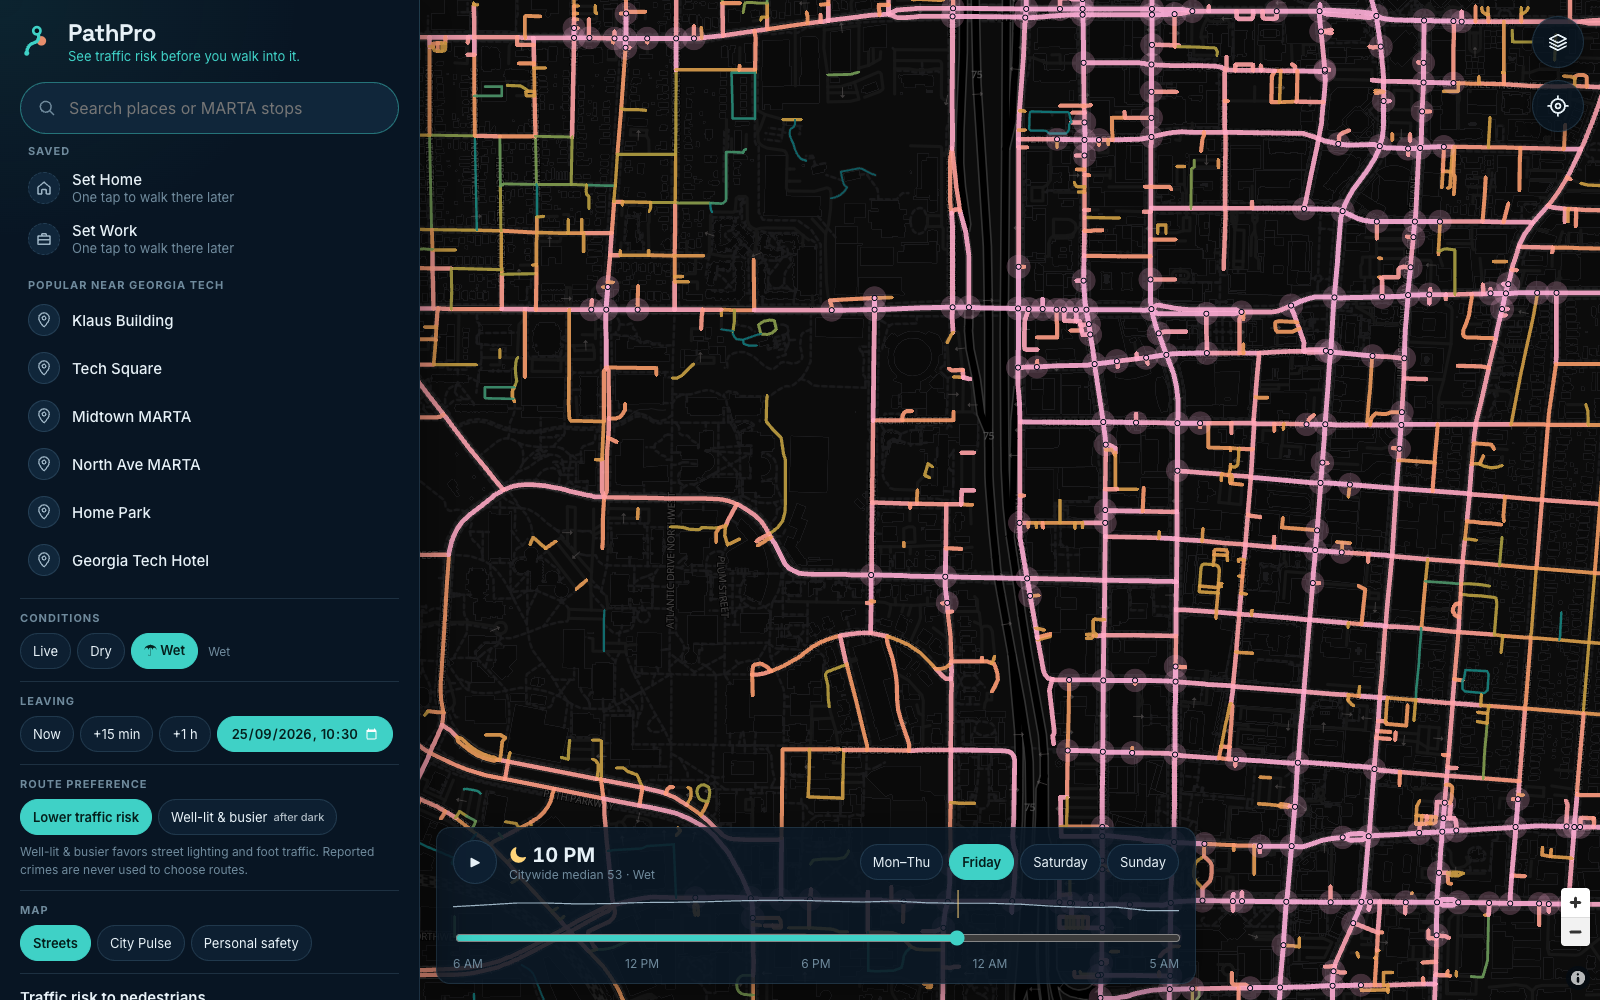
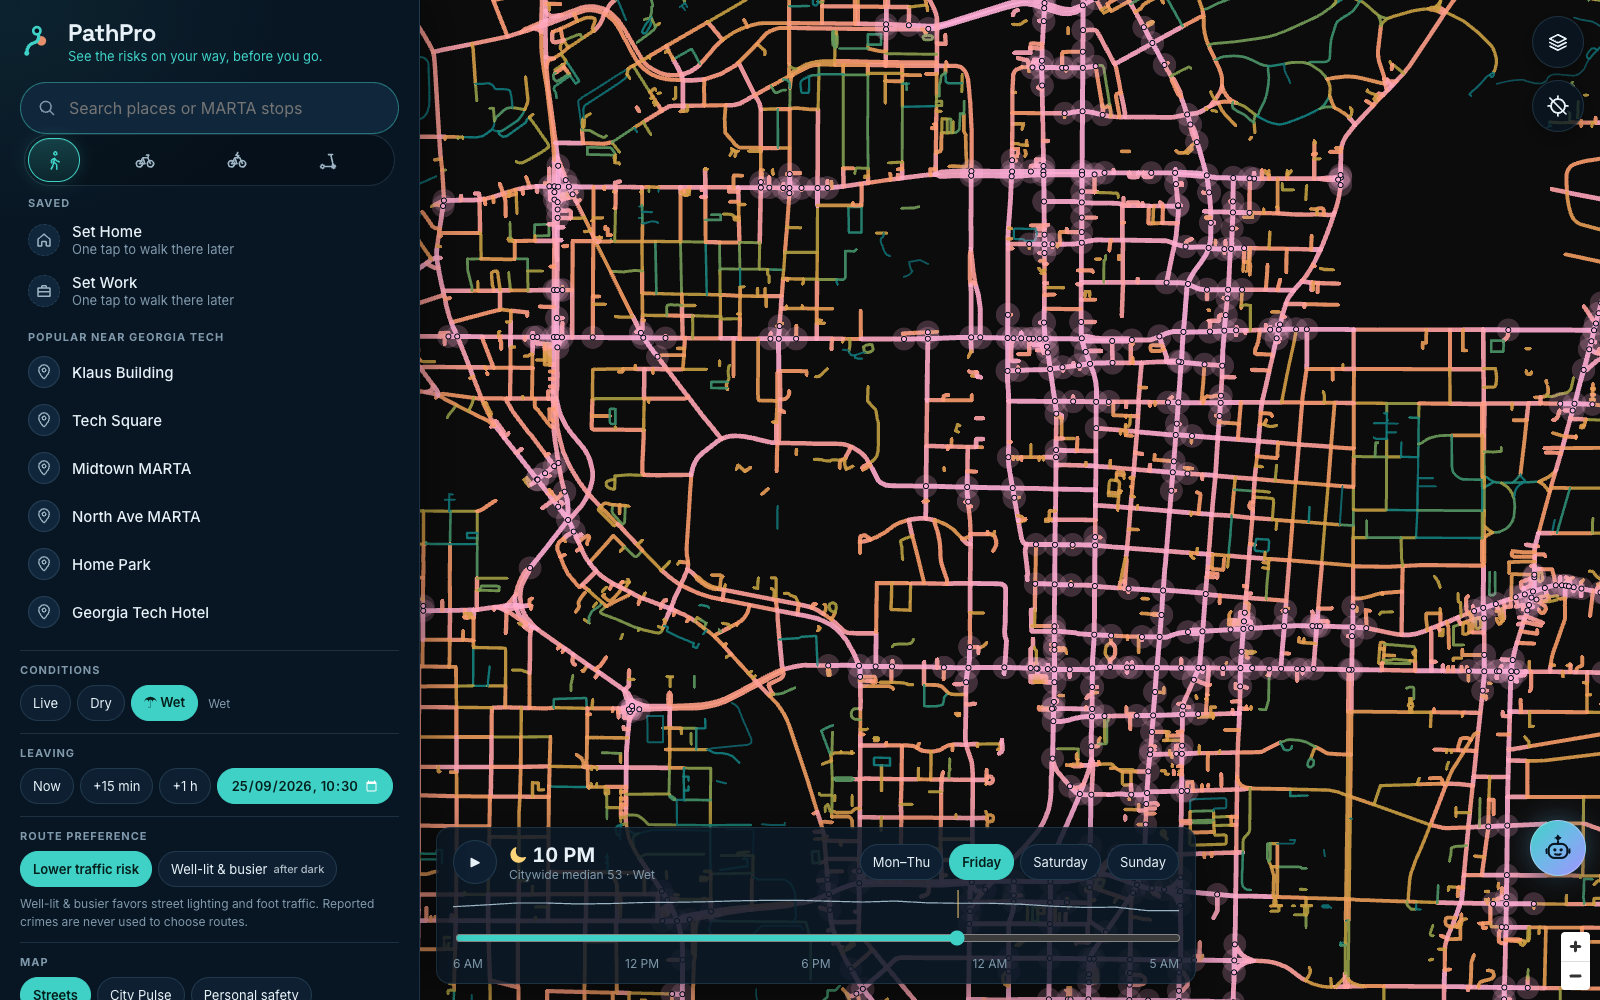
docs: gallery shots retaken from the live site after the UI refresh
Retake 02, 04 and 09-12 on https://pathpro.tech with the agent button,
chat-style Ask panel, Ask pills and segmented mode control, and add 13
for the phone agent button. README notes the refresh and the capture
rules: no reports, no shared walks, memory off, cached picture only.

diff --git a/docs/images/gallery/README.md b/docs/images/gallery/README.md
@@ -1,21 +1,24 @@
 # Devpost gallery
 
-Eight 1600×1000 app images plus one Tiger Data chart, in upload order. The app screens were captured with Playwright from the offline demo at https://pathpro.tech/?demo=1 (deterministic: Klaus → Midtown MARTA, Friday 10:30 PM, wet). The exception is `07`, which comes from the live site. Phone shots are Pixel 7 captures (1082×2202) framed onto 1600×1000. Nothing was created on the production server.
+Thirteen app images plus one Tiger Data chart, in upload order. `01`–`08` and `13` are 1600×1000; `09`–`11` are 390×844 phone captures at 2× (780×1688) and `12` is a 1440×900 desktop capture. Framed phone shots are Pixel 7 captures (1082×2202) placed on a 1600×1000 card. Nothing was created on the production server: no street reports, no shared walks, and no new street illustrations.
+
+**UI refresh (26 September 2026).** `02`, `04` and `09`–`13` were retaken from the live site at https://pathpro.tech after the UI refresh: the round Ask PathPro agent button on the map, the chat-style Ask panel, the "Ask about this street / route / area" pills, and the segmented travel-mode control. `02` still uses the offline demo (https://pathpro.tech/?demo=1, deterministic: Klaus → Midtown MARTA, Friday 10:30 PM, wet), served from the live site. `01`, `03` and `05`–`08` are from the earlier capture and predate the refresh.
 
 | File | Devpost caption |
 | --- | --- |
 | `01-phone-home-routine-suggestion.png` | Map-first home: one "Where to?" pill, and your usual walk (learned on the device only) is one tap away. |
-| `02-phone-route-comparison.png` | Fastest vs PathPro route: +4 min for 54% less traffic-risk exposure, with Start, Listen, Why? and Share. |
+| `02-phone-route-comparison.png` | Fastest vs PathPro route: +4 min for 54% less traffic-risk exposure, with the Walk · Bike · E-bike · Scooter mode control and Start, Listen, Why? and Share. |
 | `03-phone-navigation-alert.png` | Walking navigation warns before the high-traffic-risk stretch; without GPS it previews the walk. |
-| `04-desktop-risk-tides-home.png` | Desktop: a persistent sidebar, with Risk Tides re-coloring about 50,000 Atlanta street segments by hour, day and weather. |
+| `04-desktop-risk-tides-home.png` | Desktop: a persistent sidebar, with Risk Tides re-coloring about 50,000 Atlanta street segments by hour, day and weather, and the Ask PathPro agent button above the zoom buttons. |
 | `05-desktop-route-explanation.png` | Why this route: a grounded explanation, the high-risk stretches it avoids, and the stretch both routes share. |
 | `06-personal-safety-fairness-help-points.png` | Personal-safety mode: help points and reported crimes against persons, always with the fairness note. Crime never chooses routes. |
 | `07-city-pulse-area-score-live.png` | City Pulse (live site): area traffic-risk scores for all 3,537 hexes of the City of Atlanta, with the factors behind one area's score. |
 | `08-share-my-walk-follow.png` | Share my walk: a live link a friend can follow, which expires 6 hours after the last update. The follow page shows a sample walk served in the browser. |
-| `09-ask-pathpro-street.png` | Ask PathPro about the street on screen (Fifth Street NW, 9 PM): the answer lists the same factors as the score bars. |
-| `10-ask-pathpro-memory.png` | Ask PathPro from Map options, with the opt-in "Remember my preferences" switch (off) and its privacy note. |
-| `11-imagine-street-redesign.png` | Imagine this street redesigned: a Grok Imagine illustration of evidence-based fixes, labeled "not a real photo", with the Gemini check line. |
-| `12-route-ask.png` | Desktop: Ask about this route. The answer names the stretches the route avoided, matching the route explanation. |
+| `09-ask-pathpro-street.png` | Ask about this street (Fifth Street NW, 9 PM), in the chat panel: the context pill, your question in a teal bubble, and an answer that lists the same factors as the score bars. |
+| `10-ask-pathpro-memory.png` | Ask PathPro opened from the agent button: a general answer, suggestion chips, the round Send button, and the opt-in "Remember my preferences" switch (off) with its privacy note. |
+| `11-imagine-street-redesign.png` | Imagine this street redesigned (10th Street NW): a Grok Imagine illustration of evidence-based fixes, labeled "not a real photo", with the "Checked by Gemini" line. |
+| `12-route-ask.png` | Desktop: Ask about this route, answered in the docked chat card. The answer names the stretches the route avoided, matching the route explanation. |
+| `13-agent-button.png` | Ask PathPro is one tap away: the round agent button sits on the phone map, above the layers and locate buttons. |
 | `tiger-hourly.png` | Tiger Data: when Atlanta crashes happen, by hour, summed from the `crashes_hourly` continuous aggregate over the crash hypertable (57 chunks, 220,594 rows). |
 
 ## How these were made
@@ -25,4 +28,4 @@ Eight 1600×1000 app images plus one Tiger Data chart, in upload order. The app 
   - The "Sharing live" state in `08` is the demo's on-device simulation.
   - The follow page in `08` is fed a sample walk by intercepting its `GET /api/walks/…` request inside the browser, so no walk exists on the server.
 - **Tiger chart.** A Python script queried the Tiger Data service read-only: hypertable chunk count, row counts, and the hour-of-day profile from `crashes_hourly` in Atlanta local time. Matplotlib rendered the chart. Counts are weighted sums, because an intersection crash is split across its approaches.
-- **Ask and Imagine screens (`09`–`12`).** Playwright against the app running locally with real Backboard, Grok and Gemini calls. Location permission was never granted and memory stayed off. The Gemini line in `11` comes from a real Gemini check of that picture, run with a longer timeout after the in-app check timed out.
+- **Refreshed screens (`02`, `04`, `09`–`13`).** Playwright (headless Chromium) against the live site, https://pathpro.tech, with real Backboard answers. A request filter in the script let through only reads, route and explanation requests, Ask questions, and the Imagine request for streets that already had a cached picture. Everything else, including street reports, shared walks and Ask memory, was blocked. Location permission was never granted, and "Remember my preferences" stayed off (`10` opens only its info note). `11` loads the cached, Gemini-checked picture for 10th Street NW, so no new picture was generated. `02` and `13` are Pixel 7 captures placed on a 1600×1000 card.
